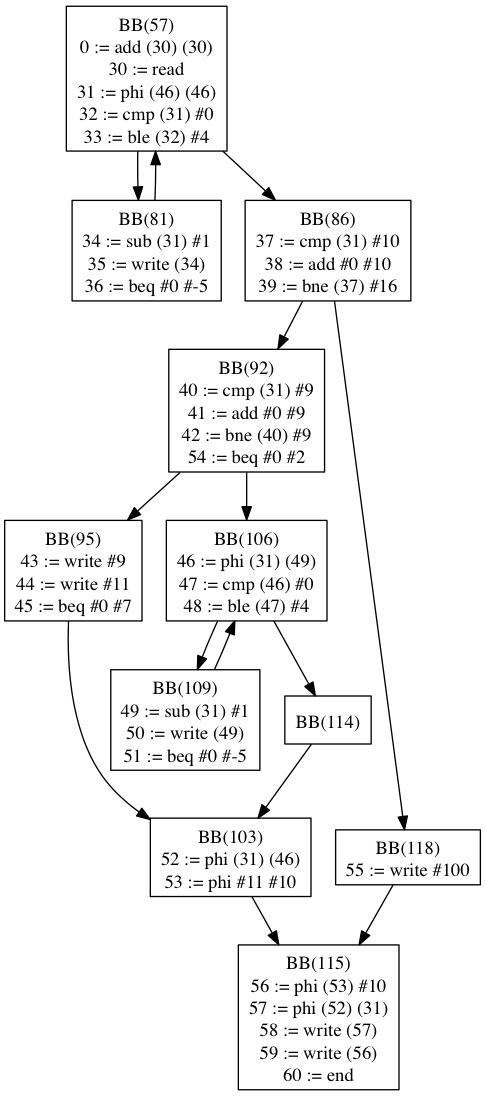
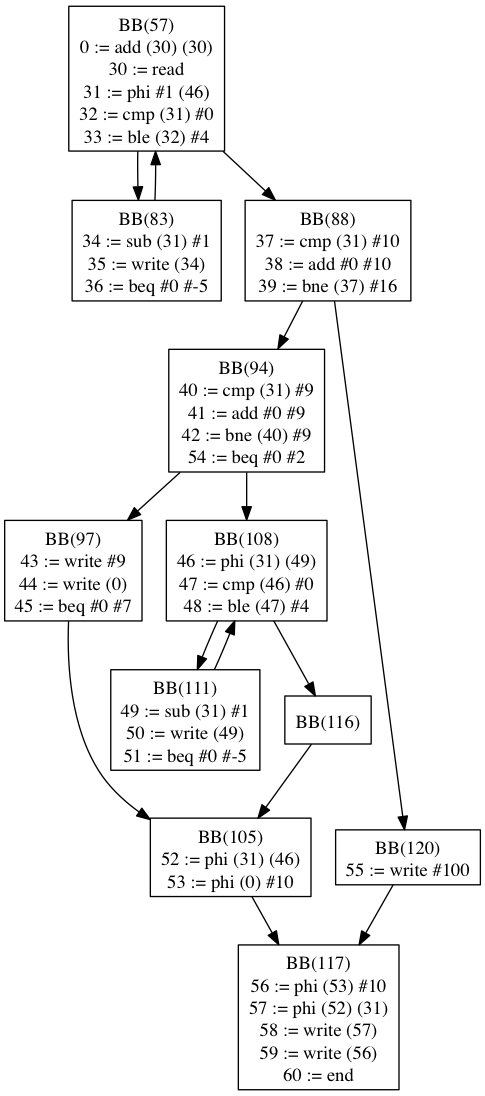
Current problem: phi generation at root and then heading out

diff --git a/project/src/com/uci/cs241/pl241/frontend/PLParser.java b/project/src/com/uci/cs241/pl241/frontend/PLParser.java
@@ -546,11 +546,6 @@ public class PLParser
 					inst.origIdent = varName;
 					inst.tempPosition = PLStaticSingleAssignment.globalSSAIndex;
 					
-//					scope.updateSymbol(varName, inst); // (SSA ID) := expr
-					
-					// Add an entry to the DU chain
-//					duChain.put(inst, new ArrayList<PLIRInstruction>());
-					
 					// If we aren't deferring generation because of a potential PHI usage, just replace with the current value in scope
 					if ((inst.op1 != null && deferredPhiIdents.contains(inst.op1.origIdent)) || 
 							(inst.op2 != null && deferredPhiIdents.contains(inst.op2.origIdent)))
@@ -560,7 +555,6 @@ public class PLParser
 						inst.forceGenerate(scope);
 					}
 					else if (deferredPhiIdents.contains(varName)) // else, force the current instruction to be generated so it can be used in a phi later
-//					if (insideWhile)
 					{
 						inst.kind = ResultKind.VAR;
 						inst.overrideGenerate = true;
@@ -1120,7 +1114,12 @@ public class PLParser
 				debug("new phi: " + phi.id + " := " + phi.toString());
 				phi.origIdent = var; // needed for propagation
 				offset++;
-				entry.insertInstruction(phi, 0); 
+				entry.insertInstruction(phi, 0);
+				
+				if (phi.id == 31)
+				{
+					debug("here");
+				}
 				
 				// The current value in scope needs to be updated now with the result of the phi
 				scope.updateSymbol(var, phi);

diff --git a/project/src/com/uci/cs241/pl241/ir/PLIRBasicBlock.java b/project/src/com/uci/cs241/pl241/ir/PLIRBasicBlock.java
@@ -183,12 +183,12 @@ public class PLIRBasicBlock
 		// Propagate through the main instructions in this block's body
 		for (PLIRInstruction bInst : instructions)
 		{
-			System.err.println(bInst.toString());
-			System.err.println(bInst.origIdent);
-			if (bInst.opcode == PLIRInstructionType.WRITE)
-			{
-				System.err.println("here");
-			}
+//			System.err.println(bInst.toString());
+//			System.err.println(bInst.origIdent);
+//			if (bInst.opcode == PLIRInstructionType.WRITE)
+//			{
+//				System.err.println("here");
+//			}
 			boolean replaced = false;
 			
 			if (bInst.op1 != null && (bInst.op1.equals(findPhi.op1) || bInst.op1.equals(findPhi.op1)))

diff --git a/project/src/com/uci/cs241/pl241/ir/PLIRInstruction.java b/project/src/com/uci/cs241/pl241/ir/PLIRInstruction.java
@@ -402,6 +402,10 @@ public class PLIRInstruction
 	
 	public void replaceRightOperand(PLIRInstruction newRight)
 	{
+		if (this.id == 31)
+		{
+			System.err.println("what?)");
+		}
 		op2 = newRight;
 		op2type = OperandType.INST;
 	}
